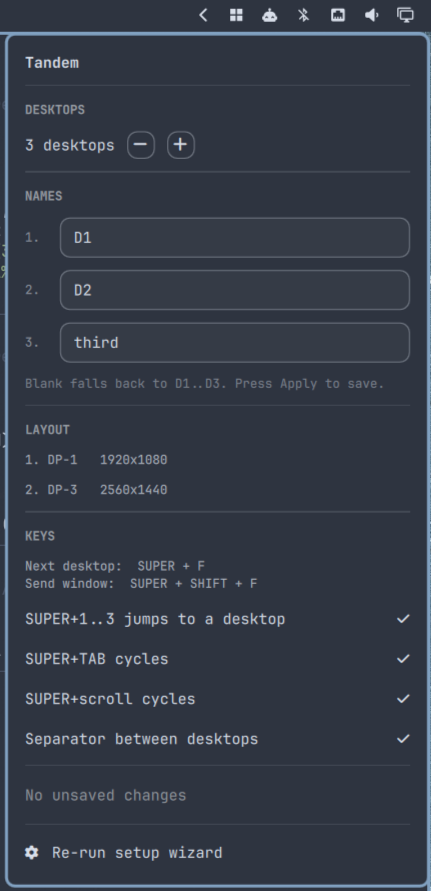
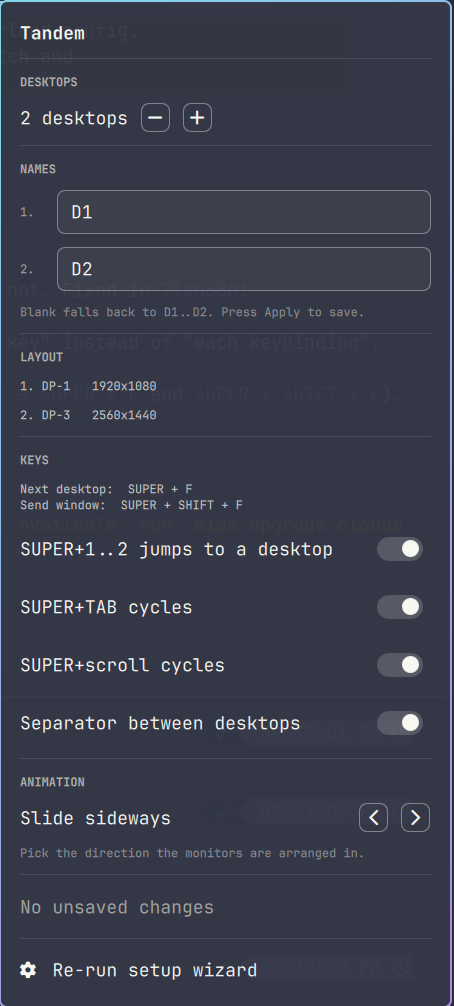
Refresh the settings screenshot and document the panel's controls
The screenshot predated the animation section and the switch rows. The
README also described the panel in one line without saying what each
control is, and never documented the numbers/tab/scroll keys as settings.

Claude-Session: https://claude.ai/code/session_018NtYY378XwZxSoFXBzCtiS

diff --git a/README.md b/README.md
@@ -68,9 +68,15 @@ One key answer gives both binds: `F` becomes `SUPER + F` to switch and
 
 ![Settings panel](assets/settings-panel.png)
 
-The **settings panel** (grid icon, right of the bar) edits desktop count,
-names, keybindings, the switching animation and the `|` separator, and lists
-the detected monitors.
+The **settings panel** (grid icon, right of the bar) covers everything the
+wizard does except the monitor order, which it lists read-only:
+
+- `−` / `+` for the desktop count, and a text field per desktop name.
+- A switch per key option — `SUPER+1..n`, `SUPER+TAB`, `SUPER+scroll` — plus
+  the `|` separator. Click anywhere on the row.
+- `‹` / `›` step through the switching animation.
+- The switch and send keys are shown but set in the wizard.
+
 Edits are **staged** until you press Apply — each write regenerates and
 reloads the Hyprland config, too disruptive to do per click. Revert discards
 staged edits; so does closing the panel.
@@ -123,6 +129,9 @@ bar hands a widget every key on its entry except `id`:
 - `monitors` — omit to autodetect, ordered top-to-bottom then left-to-right.
 - `labels` — desktop names. Omit or use `[]` for the `D1`..`Dn` default; a
   short list names only the desktops it covers.
+- `numbers` / `tab` / `scroll` — the optional binds: `SUPER+1`..`n`,
+  `SUPER+TAB`, and `SUPER+scroll`. Set one `false` to leave that key to
+  Omarchy.
 - `separator` — draws a `|` between bar entries.
 - `animation` — how a switch is drawn: `slide`, `slidevert`, `fade`,
   `slidefade`, `slidefadevert`, or `none` to keep Hyprland's own workspace
